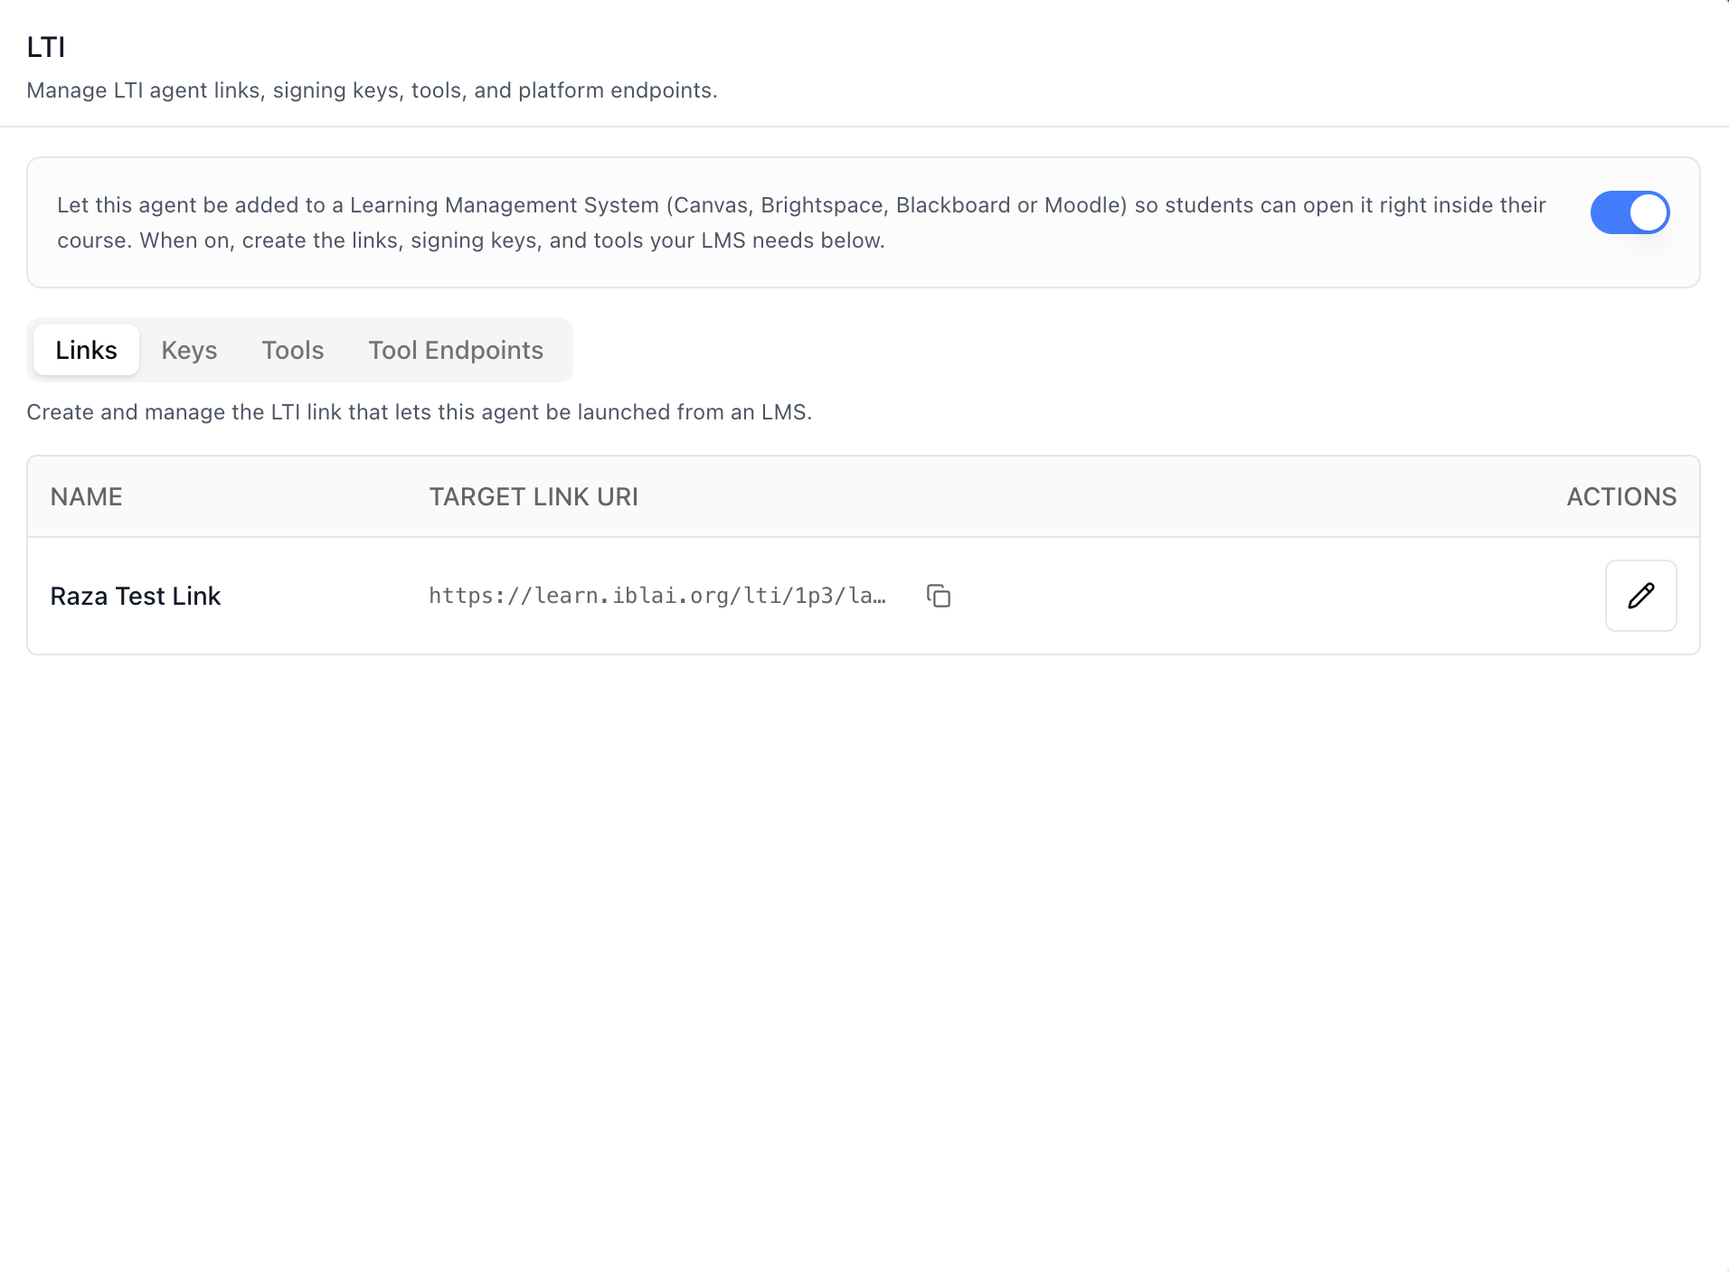
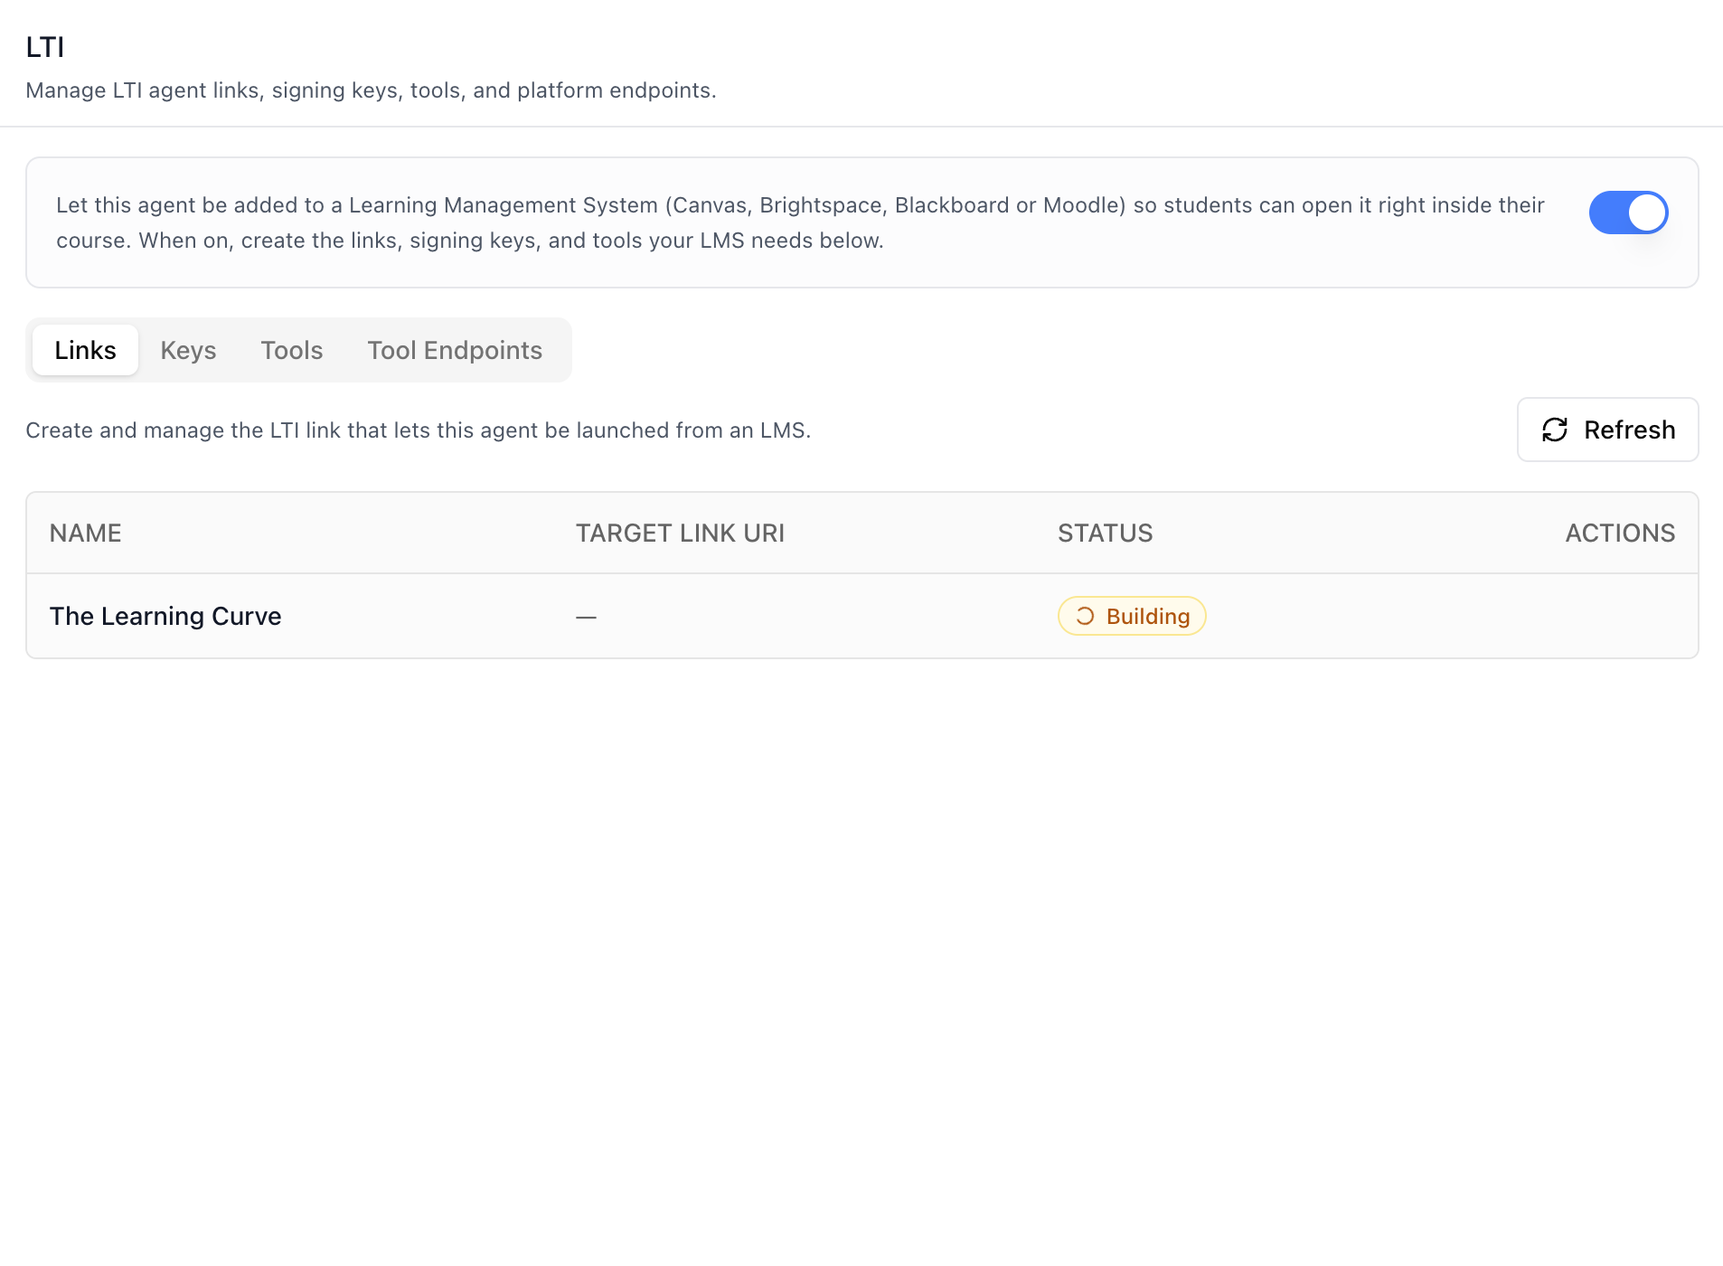
docs(skills): document async LTI link creation and voice instructions
- iblai-vibe-agent-lti: async_create=true POST flow (202 + pending),
  Status column (pending/building/ready/failed), Refresh while a build
  is in progress, Retry on failed rows, edit gated to ready links;
  updated Links screenshot and related data-layer exports
- iblai-vibe-agent-voice: new Voice instructions style prompt (Edit
  rich-text modal, Copy, 1000-char counter, example presets) with
  provider semantics (OpenAI speech instructions / Google synthesis
  prompt) and save contract; two new screenshots
- regenerated cursor/codex adapters

diff --git a/skills/iblai-vibe-agent-voice/SKILL.md b/skills/iblai-vibe-agent-voice/SKILL.md
@@ -10,9 +10,10 @@ alwaysApply: false
 Add the agent **Voice tab** -- pick the voice your agent uses to read out
 chat replies, and configure how live voice calls work. The tab has two
 sub-tabs: **Voice** (choose a voice source -- Browser, OpenAI, or Google --
-then pick a specific voice from a searchable, previewable picker) and
-**Voice call** (call style, spoken language, AI provider, and the voice used
-on calls). This is one tab in the wider agent-settings family (`access`,
+then pick a specific voice from a searchable, previewable picker, and
+optionally write **Voice instructions**, a style prompt for how the voice
+should deliver replies) and **Voice call** (call style, spoken language,
+AI provider, and the voice used on calls). This is one tab in the wider agent-settings family (`access`,
 `api`, `datasets`, `disclaimers`, `embed`, `history`, `llm`, `memory`,
 `prompts`, `safety`, `settings`, `tools`, `voice`). Each tab is a separate
 skill. All tabs share the same `AgentSettingsProvider` wrapper -- set it up
@@ -26,6 +27,8 @@ once and mount as many tabs as you need.
 ![Enable voice calls in Settings -> Capabilities](https://raw.githubusercontent.com/iblai/vibe/refs/heads/main/skills/iblai-vibe-agent-voice/iblai-vibe-agent-voice-1-capabilities.png)
 ![Voice sub-tab: choose a voice source and pick a voice](https://raw.githubusercontent.com/iblai/vibe/refs/heads/main/skills/iblai-vibe-agent-voice/iblai-vibe-agent-voice-2-voice.png)
 ![Voice picker: search, browse, and preview a sample](https://raw.githubusercontent.com/iblai/vibe/refs/heads/main/skills/iblai-vibe-agent-voice/iblai-vibe-agent-voice-3-voice-picker.png)
+![Voice instructions: style prompt card with Edit / Copy, character counter, and example presets](https://raw.githubusercontent.com/iblai/vibe/refs/heads/main/skills/iblai-vibe-agent-voice/iblai-vibe-agent-voice-5-instructions.png)
+![Edit Voice Instructions modal (rich-text editor)](https://raw.githubusercontent.com/iblai/vibe/refs/heads/main/skills/iblai-vibe-agent-voice/iblai-vibe-agent-voice-6-instructions-edit.png)
 ![Voice call sub-tab: call style, language, provider, and call voice](https://raw.githubusercontent.com/iblai/vibe/refs/heads/main/skills/iblai-vibe-agent-voice/iblai-vibe-agent-voice-4-voice-call.png)
 
 Do NOT add custom styles, colors, or CSS overrides to ibl.ai SDK components.
@@ -170,12 +173,17 @@ mounted separately.
 |---------|-----------|------------------|---------------|
 | **Voice sub-tab** | [voice](https://raw.githubusercontent.com/iblai/vibe/refs/heads/main/skills/iblai-vibe-agent-voice/iblai-vibe-agent-voice-2-voice.png) | `voice-tab` (Voice sub-tab) | Voice source cards -- **Browser** (the listener's own device, no setup), **OpenAI**, and **Google** -- plus a "Select a voice" trigger when OpenAI or Google is chosen, and a **Save voice** button |
 | **Voice picker** | [picker](https://raw.githubusercontent.com/iblai/vibe/refs/heads/main/skills/iblai-vibe-agent-voice/iblai-vibe-agent-voice-3-voice-picker.png) | `voice-picker-modal` / `voice-picker` | A searchable list of the provider's voices (e.g. OpenAI: Alloy, Ash, Coral, Echo, Fable, Nova, Onyx, Sage, Shimmer) with a play button to preview a sample before picking |
+| **Voice instructions** | [instructions](https://raw.githubusercontent.com/iblai/vibe/refs/heads/main/skills/iblai-vibe-agent-voice/iblai-vibe-agent-voice-5-instructions.png) / [edit modal](https://raw.githubusercontent.com/iblai/vibe/refs/heads/main/skills/iblai-vibe-agent-voice/iblai-vibe-agent-voice-6-instructions-edit.png) | `voice-tab` (Voice sub-tab) | A free-form style prompt for how the voice delivers replies (e.g. "Speak slowly in a warm, encouraging tone, like a patient tutor."): a prompt card with **Edit** (rich-text modal) and **Copy**, an info tooltip, a `0/1000` character counter, and one-click example presets (Warm and encouraging / Calm and measured / Energetic and upbeat) |
 | **Voice call sub-tab** | [voice call](https://raw.githubusercontent.com/iblai/vibe/refs/heads/main/skills/iblai-vibe-agent-voice/iblai-vibe-agent-voice-4-voice-call.png) | `call-config-section` | Call style (Live conversation / Step-by-step), spoken language, AI provider, and the voice used on calls, with **Reset** and **Save changes** |
 
 The **Browser** source speaks through the user's own device (no API voice).
 **OpenAI** and **Google** use a custom voice you pick from the voice picker.
 A voice is only sent to the backend on save when the user picks one this
 session -- leaving it untouched preserves the existing server-side value.
+The same "absent = keep" contract applies to **Voice instructions**: the
+field is only included in the save payload when it changed, and clearing
+it sends an empty string (`""`) — an absent field means "no change" on
+the backend.
 
 ## `<AgentVoiceTab>` Props
 
@@ -217,6 +225,15 @@ Run `/iblai-ops-test` before telling the user the work is ready:
   calls". Without it, the call features have no effect.
 - **Voice sources**: **Browser** uses the listener's own device (no API
   voice and no picker). **OpenAI** and **Google** require picking a voice.
+- **Voice instructions** (`voice_instructions` on the agent's settings):
+  a style prompt forwarded to the TTS provider on every synthesis —
+  OpenAI voices receive it as speech `instructions`, Google voices as a
+  synthesis `prompt`; other sources (including Browser) ignore it. Leave
+  it blank for the provider's default delivery. Setting instructions
+  switches OpenAI synthesis to a pricier, instruction-capable speech
+  model — that trade-off is deliberate and surfaced in the help text.
+  The 1000-character cap is a UI guardrail (the backend column is
+  unbounded); the Save button blocks while over it.
 - **Redux store**: Must include `mentorReducer` and `mentorMiddleware`.
 - **`initializeDataLayer()`**: 5 args (v1.2+)
 - **`@reduxjs/toolkit`**: Deduplicated via webpack aliases in `next.config.ts`

diff --git a/adapters/codex/iblai-vibe-agent-voice.md b/adapters/codex/iblai-vibe-agent-voice.md
@@ -7,9 +7,10 @@
 Add the agent **Voice tab** -- pick the voice your agent uses to read out
 chat replies, and configure how live voice calls work. The tab has two
 sub-tabs: **Voice** (choose a voice source -- Browser, OpenAI, or Google --
-then pick a specific voice from a searchable, previewable picker) and
-**Voice call** (call style, spoken language, AI provider, and the voice used
-on calls). This is one tab in the wider agent-settings family (`access`,
+then pick a specific voice from a searchable, previewable picker, and
+optionally write **Voice instructions**, a style prompt for how the voice
+should deliver replies) and **Voice call** (call style, spoken language,
+AI provider, and the voice used on calls). This is one tab in the wider agent-settings family (`access`,
 `api`, `datasets`, `disclaimers`, `embed`, `history`, `llm`, `memory`,
 `prompts`, `safety`, `settings`, `tools`, `voice`). Each tab is a separate
 skill. All tabs share the same `AgentSettingsProvider` wrapper -- set it up
@@ -23,6 +24,8 @@ once and mount as many tabs as you need.
 ![Enable voice calls in Settings -> Capabilities](https://raw.githubusercontent.com/iblai/vibe/refs/heads/main/skills/iblai-vibe-agent-voice/iblai-vibe-agent-voice-1-capabilities.png)
 ![Voice sub-tab: choose a voice source and pick a voice](https://raw.githubusercontent.com/iblai/vibe/refs/heads/main/skills/iblai-vibe-agent-voice/iblai-vibe-agent-voice-2-voice.png)
 ![Voice picker: search, browse, and preview a sample](https://raw.githubusercontent.com/iblai/vibe/refs/heads/main/skills/iblai-vibe-agent-voice/iblai-vibe-agent-voice-3-voice-picker.png)
+![Voice instructions: style prompt card with Edit / Copy, character counter, and example presets](https://raw.githubusercontent.com/iblai/vibe/refs/heads/main/skills/iblai-vibe-agent-voice/iblai-vibe-agent-voice-5-instructions.png)
+![Edit Voice Instructions modal (rich-text editor)](https://raw.githubusercontent.com/iblai/vibe/refs/heads/main/skills/iblai-vibe-agent-voice/iblai-vibe-agent-voice-6-instructions-edit.png)
 ![Voice call sub-tab: call style, language, provider, and call voice](https://raw.githubusercontent.com/iblai/vibe/refs/heads/main/skills/iblai-vibe-agent-voice/iblai-vibe-agent-voice-4-voice-call.png)
 
 Do NOT add custom styles, colors, or CSS overrides to ibl.ai SDK components.
@@ -167,12 +170,17 @@ mounted separately.
 |---------|-----------|------------------|---------------|
 | **Voice sub-tab** | [voice](https://raw.githubusercontent.com/iblai/vibe/refs/heads/main/skills/iblai-vibe-agent-voice/iblai-vibe-agent-voice-2-voice.png) | `voice-tab` (Voice sub-tab) | Voice source cards -- **Browser** (the listener's own device, no setup), **OpenAI**, and **Google** -- plus a "Select a voice" trigger when OpenAI or Google is chosen, and a **Save voice** button |
 | **Voice picker** | [picker](https://raw.githubusercontent.com/iblai/vibe/refs/heads/main/skills/iblai-vibe-agent-voice/iblai-vibe-agent-voice-3-voice-picker.png) | `voice-picker-modal` / `voice-picker` | A searchable list of the provider's voices (e.g. OpenAI: Alloy, Ash, Coral, Echo, Fable, Nova, Onyx, Sage, Shimmer) with a play button to preview a sample before picking |
+| **Voice instructions** | [instructions](https://raw.githubusercontent.com/iblai/vibe/refs/heads/main/skills/iblai-vibe-agent-voice/iblai-vibe-agent-voice-5-instructions.png) / [edit modal](https://raw.githubusercontent.com/iblai/vibe/refs/heads/main/skills/iblai-vibe-agent-voice/iblai-vibe-agent-voice-6-instructions-edit.png) | `voice-tab` (Voice sub-tab) | A free-form style prompt for how the voice delivers replies (e.g. "Speak slowly in a warm, encouraging tone, like a patient tutor."): a prompt card with **Edit** (rich-text modal) and **Copy**, an info tooltip, a `0/1000` character counter, and one-click example presets (Warm and encouraging / Calm and measured / Energetic and upbeat) |
 | **Voice call sub-tab** | [voice call](https://raw.githubusercontent.com/iblai/vibe/refs/heads/main/skills/iblai-vibe-agent-voice/iblai-vibe-agent-voice-4-voice-call.png) | `call-config-section` | Call style (Live conversation / Step-by-step), spoken language, AI provider, and the voice used on calls, with **Reset** and **Save changes** |
 
 The **Browser** source speaks through the user's own device (no API voice).
 **OpenAI** and **Google** use a custom voice you pick from the voice picker.
 A voice is only sent to the backend on save when the user picks one this
 session -- leaving it untouched preserves the existing server-side value.
+The same "absent = keep" contract applies to **Voice instructions**: the
+field is only included in the save payload when it changed, and clearing
+it sends an empty string (`""`) — an absent field means "no change" on
+the backend.
 
 ## `<AgentVoiceTab>` Props
 
@@ -214,6 +222,15 @@ Run `/iblai-ops-test` before telling the user the work is ready:
   calls". Without it, the call features have no effect.
 - **Voice sources**: **Browser** uses the listener's own device (no API
   voice and no picker). **OpenAI** and **Google** require picking a voice.
+- **Voice instructions** (`voice_instructions` on the agent's settings):
+  a style prompt forwarded to the TTS provider on every synthesis —
+  OpenAI voices receive it as speech `instructions`, Google voices as a
+  synthesis `prompt`; other sources (including Browser) ignore it. Leave
+  it blank for the provider's default delivery. Setting instructions
+  switches OpenAI synthesis to a pricier, instruction-capable speech
+  model — that trade-off is deliberate and surfaced in the help text.
+  The 1000-character cap is a UI guardrail (the backend column is
+  unbounded); the Save button blocks while over it.
 - **Redux store**: Must include `mentorReducer` and `mentorMiddleware`.
 - **`initializeDataLayer()`**: 5 args (v1.2+)
 - **`@reduxjs/toolkit`**: Deduplicated via webpack aliases in `next.config.ts`

diff --git a/adapters/codex/iblai-vibe-agent-lti.md b/adapters/codex/iblai-vibe-agent-lti.md
@@ -13,7 +13,7 @@ external LTI platforms), and **Tool Endpoints** (the fixed URLs to share
 with the LMS). This is one tab in the wider agent-settings family. All
 tabs share the same `AgentSettingsProvider` wrapper.
 
-![LTI Tab — Links](https://raw.githubusercontent.com/iblai/vibe/refs/heads/main/skills/iblai-vibe-agent-lti/iblai-vibe-agent-lti-links.png)
+![LTI Tab — Links (async build status + Refresh)](https://raw.githubusercontent.com/iblai/vibe/refs/heads/main/skills/iblai-vibe-agent-lti/iblai-vibe-agent-lti-links.png)
 
 ![LTI Tab — Keys](https://raw.githubusercontent.com/iblai/vibe/refs/heads/main/skills/iblai-vibe-agent-lti/iblai-vibe-agent-lti-keys.png)
 
@@ -142,12 +142,30 @@ Import from `@iblai/iblai-js/web-containers/next`.
 ### Links sub-tab
 
 The LTI link that lets this agent be launched from an LMS. Table shows
-**Name** and **Target Link URI** (with copy button) plus an edit action.
-Create/Edit modal collects a single required **Name**, displayed when
-selecting this agent during deep linking content selection. The link is
-created with the agent's stable id (`mentor_config.mentor`) and the
-tenant's `platform_key`. Creating a link while the LTI toggle is off
-enables `is_lti_accessible` automatically.
+**Name**, **Target Link URI** (with copy button), **Status**, and a
+per-row action. Create/Edit modal collects a single required **Name**,
+displayed when selecting this agent during deep linking content
+selection. The link is created with the agent's stable id
+(`mentor_config.mentor`) and the tenant's `platform_key`. Creating a
+link while the LTI toggle is off enables `is_lti_accessible`
+automatically.
+
+**Creation is asynchronous.** The synchronous build provisions an edX
+course and regularly outlives the 20s proxy timeout, so the data layer
+sends `async_create: true` on the POST — the backend answers `202`
+immediately with `{ id, status: "pending" }` and builds the link in
+the background:
+
+- **Status badge** — `Pending` / `Building` (amber, with a spinner),
+  `Ready` (green), `Failed` (red, with a hint tooltip). The Target
+  Link URI shows `—` until the build completes.
+- **Refresh button** — shown while any link is still
+  pending/building; re-fetches the list to pick up the latest status.
+- **Retry** — a failed row swaps its edit action for a **Retry**
+  button, which deletes the failed entity and re-posts the original
+  payload as a fresh async create.
+- **Edit is gated** — a link is only editable once it is `Ready`;
+  in-progress and failed rows can't be renamed.
 
 ### Keys sub-tab
 
@@ -207,8 +225,11 @@ From `@iblai/iblai-js/web-containers/next`:
 From `@iblai/data-layer` -- the RTK Query hooks the tab uses, for custom
 UI built on the same endpoints:
 
-- Links: `useGetLtiMentorsQuery`, `useCreateLtiMentorMutation`,
-  `useUpdateLtiMentorMutation`
+- Links: `useGetLtiMentorsQuery`, `useCreateLtiMentorMutation`
+  (sends `async_create: true`), `useUpdateLtiMentorMutation`,
+  `useDeleteLtiMentorMutation`, `useGetLtiMentorDetailQuery` (poll a
+  single link by id until its `status` is `ready` or `failed`), plus
+  the `LtiAgentLink` / `LtiAgentLinkStatus` types
 - Keys: `useGetLtiKeysQuery`, `useCreateLtiKeyMutation`,
   `useUpdateLtiKeyMutation`, `useDeleteLtiKeyMutation`
 - Tools: `useGetLtiToolsQuery`, `useCreateLtiToolMutation`,
@@ -244,4 +265,11 @@ Run `/iblai-vibe-ops-test` before telling the user the work is ready:
   agent-specific.
 - **Delete order**: A key associated with an LTI tool cannot be deleted
   -- remove or re-key the tool first.
+- **Async link creation**: `POST lti-mentors/` is sent with
+  `async_create: true` and returns `202` with
+  `{ id, status: "pending" }` — the course build finishes out of band.
+  Custom UI should poll `useGetLtiMentorDetailQuery` (or re-fetch the
+  list) until `status` is `ready`/`failed` instead of awaiting the
+  POST; the SDK tab offers a manual **Refresh** button while a build
+  is in progress and a **Retry** (delete + re-create) on failure.
 - **Brand guidelines**: [BRAND.md](https://raw.githubusercontent.com/iblai/vibe/refs/heads/main/BRAND.md)

diff --git a/skills/iblai-vibe-agent-lti/SKILL.md b/skills/iblai-vibe-agent-lti/SKILL.md
@@ -16,7 +16,7 @@ external LTI platforms), and **Tool Endpoints** (the fixed URLs to share
 with the LMS). This is one tab in the wider agent-settings family. All
 tabs share the same `AgentSettingsProvider` wrapper.
 
-![LTI Tab — Links](https://raw.githubusercontent.com/iblai/vibe/refs/heads/main/skills/iblai-vibe-agent-lti/iblai-vibe-agent-lti-links.png)
+![LTI Tab — Links (async build status + Refresh)](https://raw.githubusercontent.com/iblai/vibe/refs/heads/main/skills/iblai-vibe-agent-lti/iblai-vibe-agent-lti-links.png)
 
 ![LTI Tab — Keys](https://raw.githubusercontent.com/iblai/vibe/refs/heads/main/skills/iblai-vibe-agent-lti/iblai-vibe-agent-lti-keys.png)
 
@@ -145,12 +145,30 @@ Import from `@iblai/iblai-js/web-containers/next`.
 ### Links sub-tab
 
 The LTI link that lets this agent be launched from an LMS. Table shows
-**Name** and **Target Link URI** (with copy button) plus an edit action.
-Create/Edit modal collects a single required **Name**, displayed when
-selecting this agent during deep linking content selection. The link is
-created with the agent's stable id (`mentor_config.mentor`) and the
-tenant's `platform_key`. Creating a link while the LTI toggle is off
-enables `is_lti_accessible` automatically.
+**Name**, **Target Link URI** (with copy button), **Status**, and a
+per-row action. Create/Edit modal collects a single required **Name**,
+displayed when selecting this agent during deep linking content
+selection. The link is created with the agent's stable id
+(`mentor_config.mentor`) and the tenant's `platform_key`. Creating a
+link while the LTI toggle is off enables `is_lti_accessible`
+automatically.
+
+**Creation is asynchronous.** The synchronous build provisions an edX
+course and regularly outlives the 20s proxy timeout, so the data layer
+sends `async_create: true` on the POST — the backend answers `202`
+immediately with `{ id, status: "pending" }` and builds the link in
+the background:
+
+- **Status badge** — `Pending` / `Building` (amber, with a spinner),
+  `Ready` (green), `Failed` (red, with a hint tooltip). The Target
+  Link URI shows `—` until the build completes.
+- **Refresh button** — shown while any link is still
+  pending/building; re-fetches the list to pick up the latest status.
+- **Retry** — a failed row swaps its edit action for a **Retry**
+  button, which deletes the failed entity and re-posts the original
+  payload as a fresh async create.
+- **Edit is gated** — a link is only editable once it is `Ready`;
+  in-progress and failed rows can't be renamed.
 
 ### Keys sub-tab
 
@@ -210,8 +228,11 @@ From `@iblai/iblai-js/web-containers/next`:
 From `@iblai/data-layer` -- the RTK Query hooks the tab uses, for custom
 UI built on the same endpoints:
 
-- Links: `useGetLtiMentorsQuery`, `useCreateLtiMentorMutation`,
-  `useUpdateLtiMentorMutation`
+- Links: `useGetLtiMentorsQuery`, `useCreateLtiMentorMutation`
+  (sends `async_create: true`), `useUpdateLtiMentorMutation`,
+  `useDeleteLtiMentorMutation`, `useGetLtiMentorDetailQuery` (poll a
+  single link by id until its `status` is `ready` or `failed`), plus
+  the `LtiAgentLink` / `LtiAgentLinkStatus` types
 - Keys: `useGetLtiKeysQuery`, `useCreateLtiKeyMutation`,
   `useUpdateLtiKeyMutation`, `useDeleteLtiKeyMutation`
 - Tools: `useGetLtiToolsQuery`, `useCreateLtiToolMutation`,
@@ -247,4 +268,11 @@ Run `/iblai-vibe-ops-test` before telling the user the work is ready:
   agent-specific.
 - **Delete order**: A key associated with an LTI tool cannot be deleted
   -- remove or re-key the tool first.
+- **Async link creation**: `POST lti-mentors/` is sent with
+  `async_create: true` and returns `202` with
+  `{ id, status: "pending" }` — the course build finishes out of band.
+  Custom UI should poll `useGetLtiMentorDetailQuery` (or re-fetch the
+  list) until `status` is `ready`/`failed` instead of awaiting the
+  POST; the SDK tab offers a manual **Refresh** button while a build
+  is in progress and a **Retry** (delete + re-create) on failure.
 - **Brand guidelines**: [BRAND.md](https://raw.githubusercontent.com/iblai/vibe/refs/heads/main/BRAND.md)
